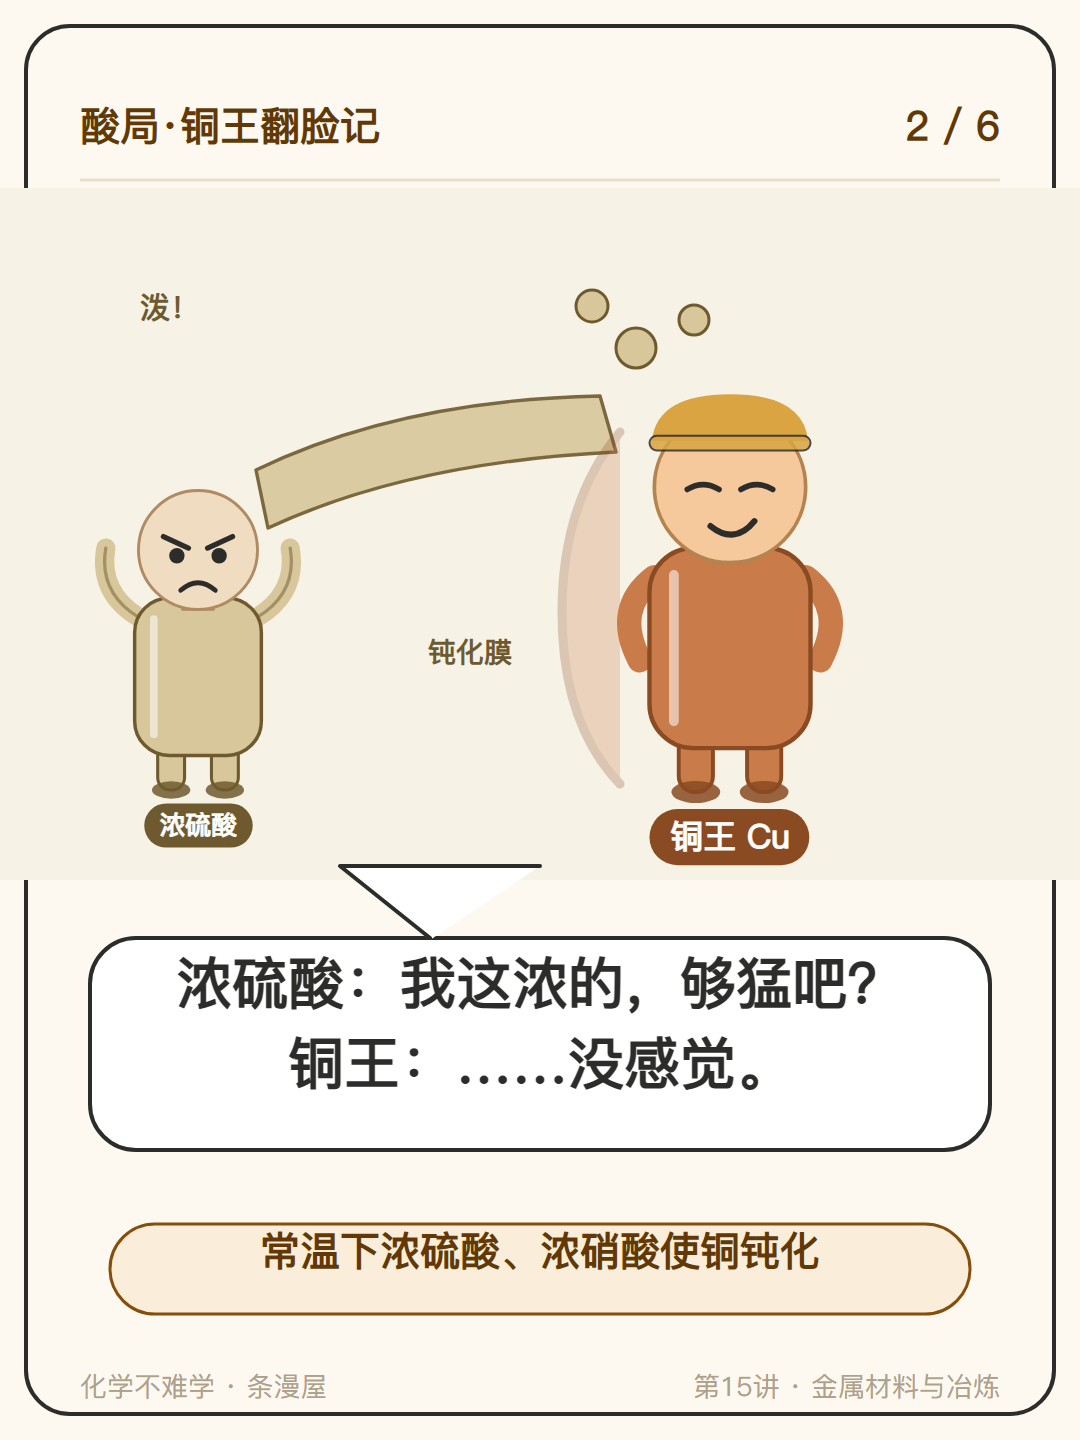
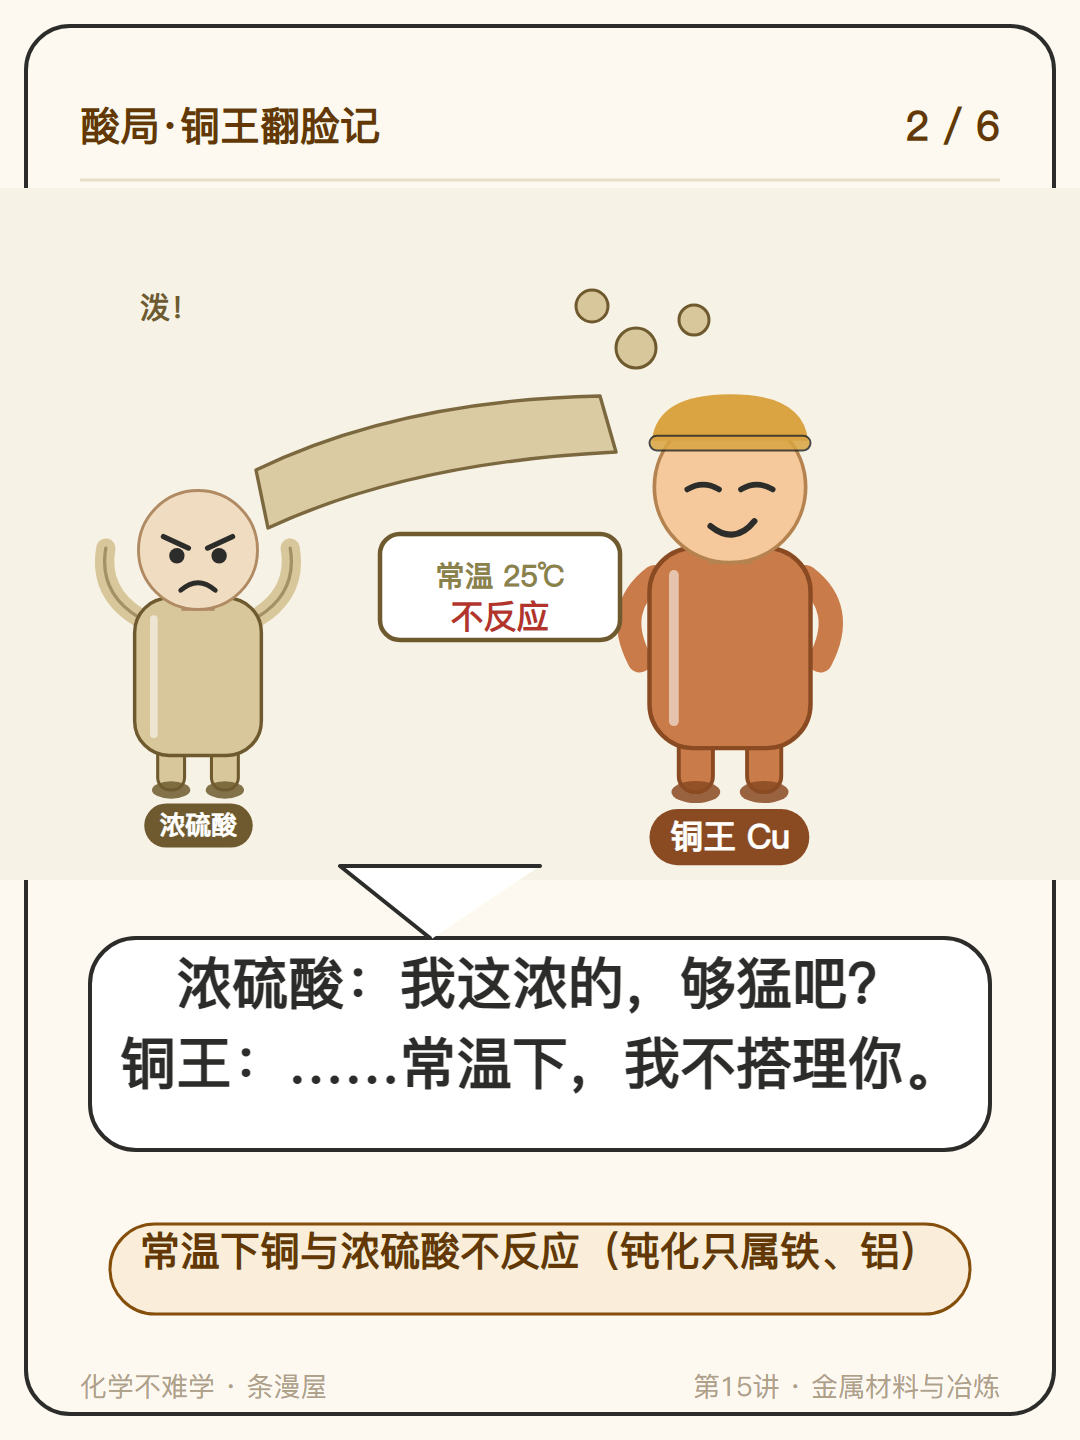
fix(条漫屋): 修正《酸局·铜王翻脸记》化学错误 —— 铜不钝化（钝化只属铁、铝），常温不反应/加热才反应

diff --git a/comics.html b/comics.html
@@ -212,10 +212,10 @@
         <div class="cf">第14讲 · 铝、镁及其化合物 · 共 5 格</div>
       </div>
     </a>
-    <a class="card" href="comic-cu-acid.html" aria-label="酸局·铜王翻脸记 —— Cu + 浓硫酸 · 常温钝化装死，加热才溶给你看">
+    <a class="card" href="comic-cu-acid.html" aria-label="酸局·铜王翻脸记 —— Cu + 浓硫酸 · 常温不反应，加热才溶；铜不钝化">
       <div class="thumb"><img src="comic-v3/cu-acid/thumb.png" width="500" height="500" loading="lazy" alt="酸局·铜王翻脸记（封面）"></div>
       <div class="body">
-        <div class="cd"><span class="ic">👑</span>Cu + 浓硫酸 · 常温钝化装死，加热才溶给你看</div>
+        <div class="cd"><span class="ic">👑</span>Cu + 浓硫酸 · 常温不反应，加热才溶；铜不钝化</div>
         <div class="cf">第15讲 · 金属材料与冶炼 · 共 6 格</div>
       </div>
     </a>

diff --git a/comic-cu-acid.html b/comic-cu-acid.html
@@ -5,7 +5,7 @@
 <meta name="viewport" content="width=device-width, initial-scale=1.0">
 <link rel="icon" type="image/svg+xml" href="favicon.svg">
 <title>酸局·铜王翻脸记 | 条漫屋</title>
-<meta name="description" content="酸局·铜王翻脸记 —— 化学不难学·条漫屋，Cu + 浓硫酸 · 常温钝化装死，加热才溶给你看">
+<meta name="description" content="酸局·铜王翻脸记 —— 化学不难学·条漫屋，Cu + 浓硫酸 · 常温不反应，加热才溶；铜不钝化">
 <style>
   * { margin:0; padding:0; box-sizing:border-box; }
   body {
